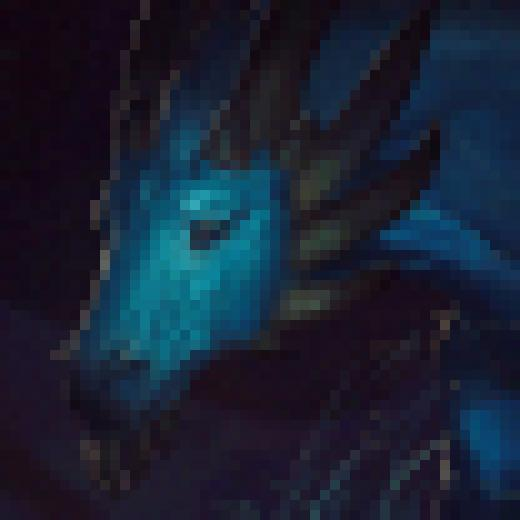
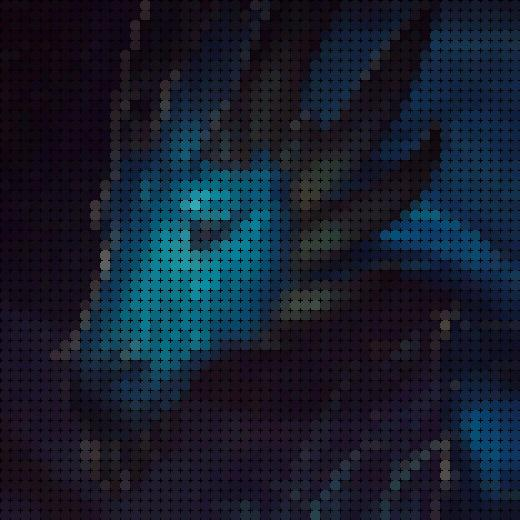
pretify the output

diff --git a/program.py b/program.py
@@ -69,7 +69,7 @@ for y in range(0, height, GRID_SIZE):
     for x in range(0, width, GRID_SIZE):
         solution = generate([(x, y, x + GRID_SIZE, y + GRID_SIZE), 0, 0, 0], image)
         solutions.append(solution)
-        draw.rectangle(solution[0], fill=(solution[1], solution[2], solution[3], 255))
+        draw.ellipse(solution[0], fill=(solution[1], solution[2], solution[3], 255))
 
 im = im.convert('RGB')
 print(f'--- {time.time() - start_time} seconds ---')
